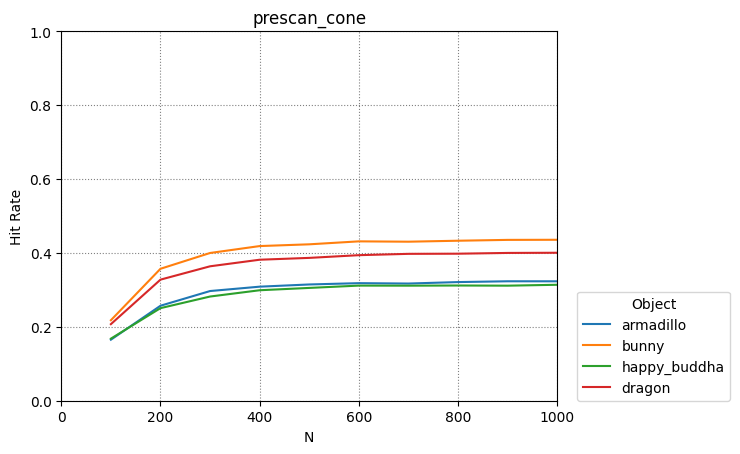
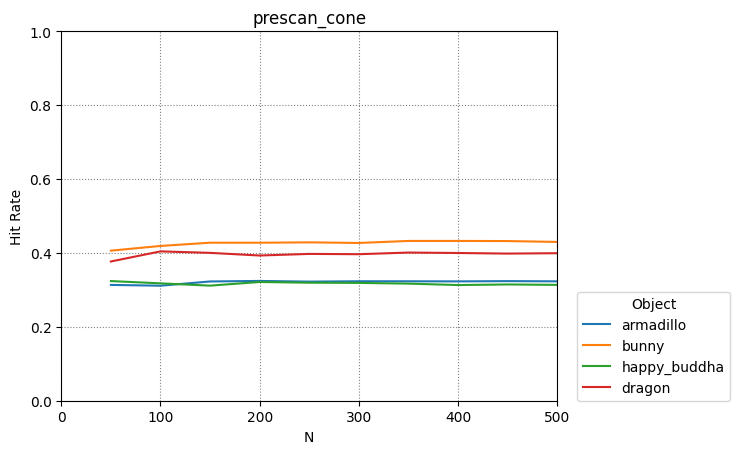
Use broad scan result in prescan_cone

diff --git a/ray_field/prescan_cone.py b/ray_field/prescan_cone.py
@@ -16,10 +16,10 @@ class PrescanCone(Algorithm):
 
         with torch.no_grad():
             origins, dirs = utils.generate_sphere_rays_tensor(PrescanCone.prescan_n, device)
-            intersections = PrescanCone._broad_scan(model, origins, dirs)
+            broad_intersections = PrescanCone._broad_scan(model, origins, dirs)
 
             origins, dirs = PrescanCone._generate_cone_rays(intersections, N, device)
-            intersections, intersection_normals = PrescanCone._targeted_scan(model, origins, dirs)
+            intersections, intersection_normals = PrescanCone._targeted_scan(model, broad_intersections, origins, dirs)
         
         return utils.poisson_surface_reconstruction(intersections, intersection_normals, PrescanCone.poisson_depth)
 
@@ -39,7 +39,7 @@ class PrescanCone(Algorithm):
                 print(N, end='\t')
 
                 origins, dirs = PrescanCone._generate_cone_rays(broad_intersections, N, device)
-                intersections, _ = PrescanCone._targeted_scan(model, origins, dirs)
+                intersections, _ = PrescanCone._targeted_scan(model, broad_intersections, origins, dirs)
 
                 sphere_n = origins.shape[0]
                 rays_n = sphere_n * (sphere_n - 1)
@@ -68,7 +68,7 @@ class PrescanCone(Algorithm):
                 print(N, end='\t')
 
                 origins, dirs = PrescanCone._generate_cone_rays(broad_intersections, N, device)
-                intersections, intersection_normals = PrescanCone._targeted_scan(model, origins, dirs)
+                intersections, intersection_normals = PrescanCone._targeted_scan(model, broad_intersections, origins, dirs)
         
                 mesh = utils.poisson_surface_reconstruction(intersections, intersection_normals, PrescanCone.poisson_depth)
                 distance = utils.chamfer_distance_to_stanford(model_name, mesh, PrescanCone.chamfer_samples)
@@ -95,7 +95,7 @@ class PrescanCone(Algorithm):
                 print(N, end='\t')
 
                 origins, dirs = PrescanCone._generate_cone_rays(broad_intersections, N, device)
-                intersections, intersection_normals = PrescanCone._targeted_scan(model, origins, dirs)
+                intersections, intersection_normals = PrescanCone._targeted_scan(model, broad_intersections, origins, dirs)
         
                 mesh = utils.poisson_surface_reconstruction(intersections, intersection_normals, PrescanCone.poisson_depth)
                 distance = utils.hausdorff_distance_to_stanford(model_name, mesh)
@@ -123,10 +123,10 @@ class PrescanCone(Algorithm):
                     start_time = timer()
 
                     origins, dirs = utils.generate_sphere_rays_tensor(PrescanCone.prescan_n, device)
-                    intersections = PrescanCone._broad_scan(model, origins, dirs)
+                    broad_intersections = PrescanCone._broad_scan(model, origins, dirs)
 
                     origins, dirs = PrescanCone._generate_cone_rays(intersections, N, device)
-                    intersections, intersection_normals = PrescanCone._targeted_scan(model, origins, dirs)
+                    intersections, intersection_normals = PrescanCone._targeted_scan(model, broad_intersections, origins, dirs)
 
                     _ = utils.poisson_surface_reconstruction(intersections, intersection_normals, PrescanCone.poisson_depth)
                     time = timer() - start_time
@@ -167,11 +167,11 @@ class PrescanCone(Algorithm):
                 for _ in range(PrescanCone.time_samples):
                     broad_start = timer()
                     origins, dirs = utils.generate_sphere_rays_tensor(PrescanCone.prescan_n, device)
-                    intersections = PrescanCone._broad_scan(model, origins, dirs)
+                    broad_intersections = PrescanCone._broad_scan(model, origins, dirs)
                     broad_end = timer()
 
-                    origins, dirs = PrescanCone._generate_cone_rays(intersections, N, device)
-                    intersections, intersection_normals = PrescanCone._targeted_scan(model, origins, dirs)
+                    origins, dirs = PrescanCone._generate_cone_rays(broad_intersections, N, device)
+                    intersections, intersection_normals = PrescanCone._targeted_scan(model, broad_intersections, origins, dirs)
                     targeted_end = timer()
 
                     _ = utils.poisson_surface_reconstruction(intersections, intersection_normals, PrescanCone.poisson_depth)
@@ -251,7 +251,7 @@ class PrescanCone(Algorithm):
                     print(f'M: {M}\tN: {N}', end='\t')
 
                     origins, dirs = PrescanCone._generate_cone_rays(broad_intersections, N, device)
-                    intersections, intersection_normals = PrescanCone._targeted_scan(model, origins, dirs)
+                    intersections, intersection_normals = PrescanCone._targeted_scan(model, broad_intersections, origins, dirs)
             
                     mesh = utils.poisson_surface_reconstruction(intersections, intersection_normals, PrescanCone.poisson_depth)
                     distance = utils.chamfer_distance_to_stanford(model_name, mesh, PrescanCone.chamfer_samples)
@@ -280,9 +280,9 @@ class PrescanCone(Algorithm):
         Returns:
             torch.Tensor: Intersection points (m, 3)
         """        
-        result = model.forward(dict(origins=origins, dirs=dirs), intersections_only = False)
-        intersections = result[2]
-        is_intersecting = result[4]
+        result = model.forward(dict(origins=origins, dirs=dirs), intersections_only = True)
+        intersections = result[0]
+        is_intersecting = result[1]
 
         is_intersecting = is_intersecting.flatten()
         return intersections.flatten(end_dim=2)[is_intersecting]
@@ -332,12 +332,13 @@ class PrescanCone(Algorithm):
         return origins.to(torch.float32), directions.to(torch.float32)
     
     @staticmethod
-    def _targeted_scan(model: IntersectionFieldAutoDecoderModel, origins: torch.Tensor, dirs: torch.Tensor) -> tuple[ndarray, ndarray]:
+    def _targeted_scan(model: IntersectionFieldAutoDecoderModel, broad_intersectsions: torch.Tensor, origins: torch.Tensor, dirs: torch.Tensor) -> tuple[ndarray, ndarray]:
         """Perform a ray query on the MARF model to get intersections and normals.
         The result will be transferred to the CPU.
 
         Args:
             model (IntersectionFieldAutoDecoderModel): Initialized MARF model
+            broad_intersectsions (torch.Tensor): Intersections from the broad scan (x, 3)
             origins (torch.Tensor): Origins of the rays (n, 3)
             dirs (torch.Tensor): Ray directions (n, 1, n-1, 3)
 
@@ -353,7 +354,9 @@ class PrescanCone(Algorithm):
         is_intersecting = result[4]
 
         is_intersecting = is_intersecting.flatten()
-        intersections = intersections.flatten(end_dim=2)[is_intersecting].cpu().detach().numpy()
+        intersections = intersections.flatten(end_dim=2)[is_intersecting]
         intersection_normals = intersection_normals.flatten(end_dim=2)[is_intersecting].cpu().detach().numpy()
+
+        intersections = torch.cat((intersections, broad_intersectsions)).cpu().detach().numpy()
 
         return intersections, intersection_normals
